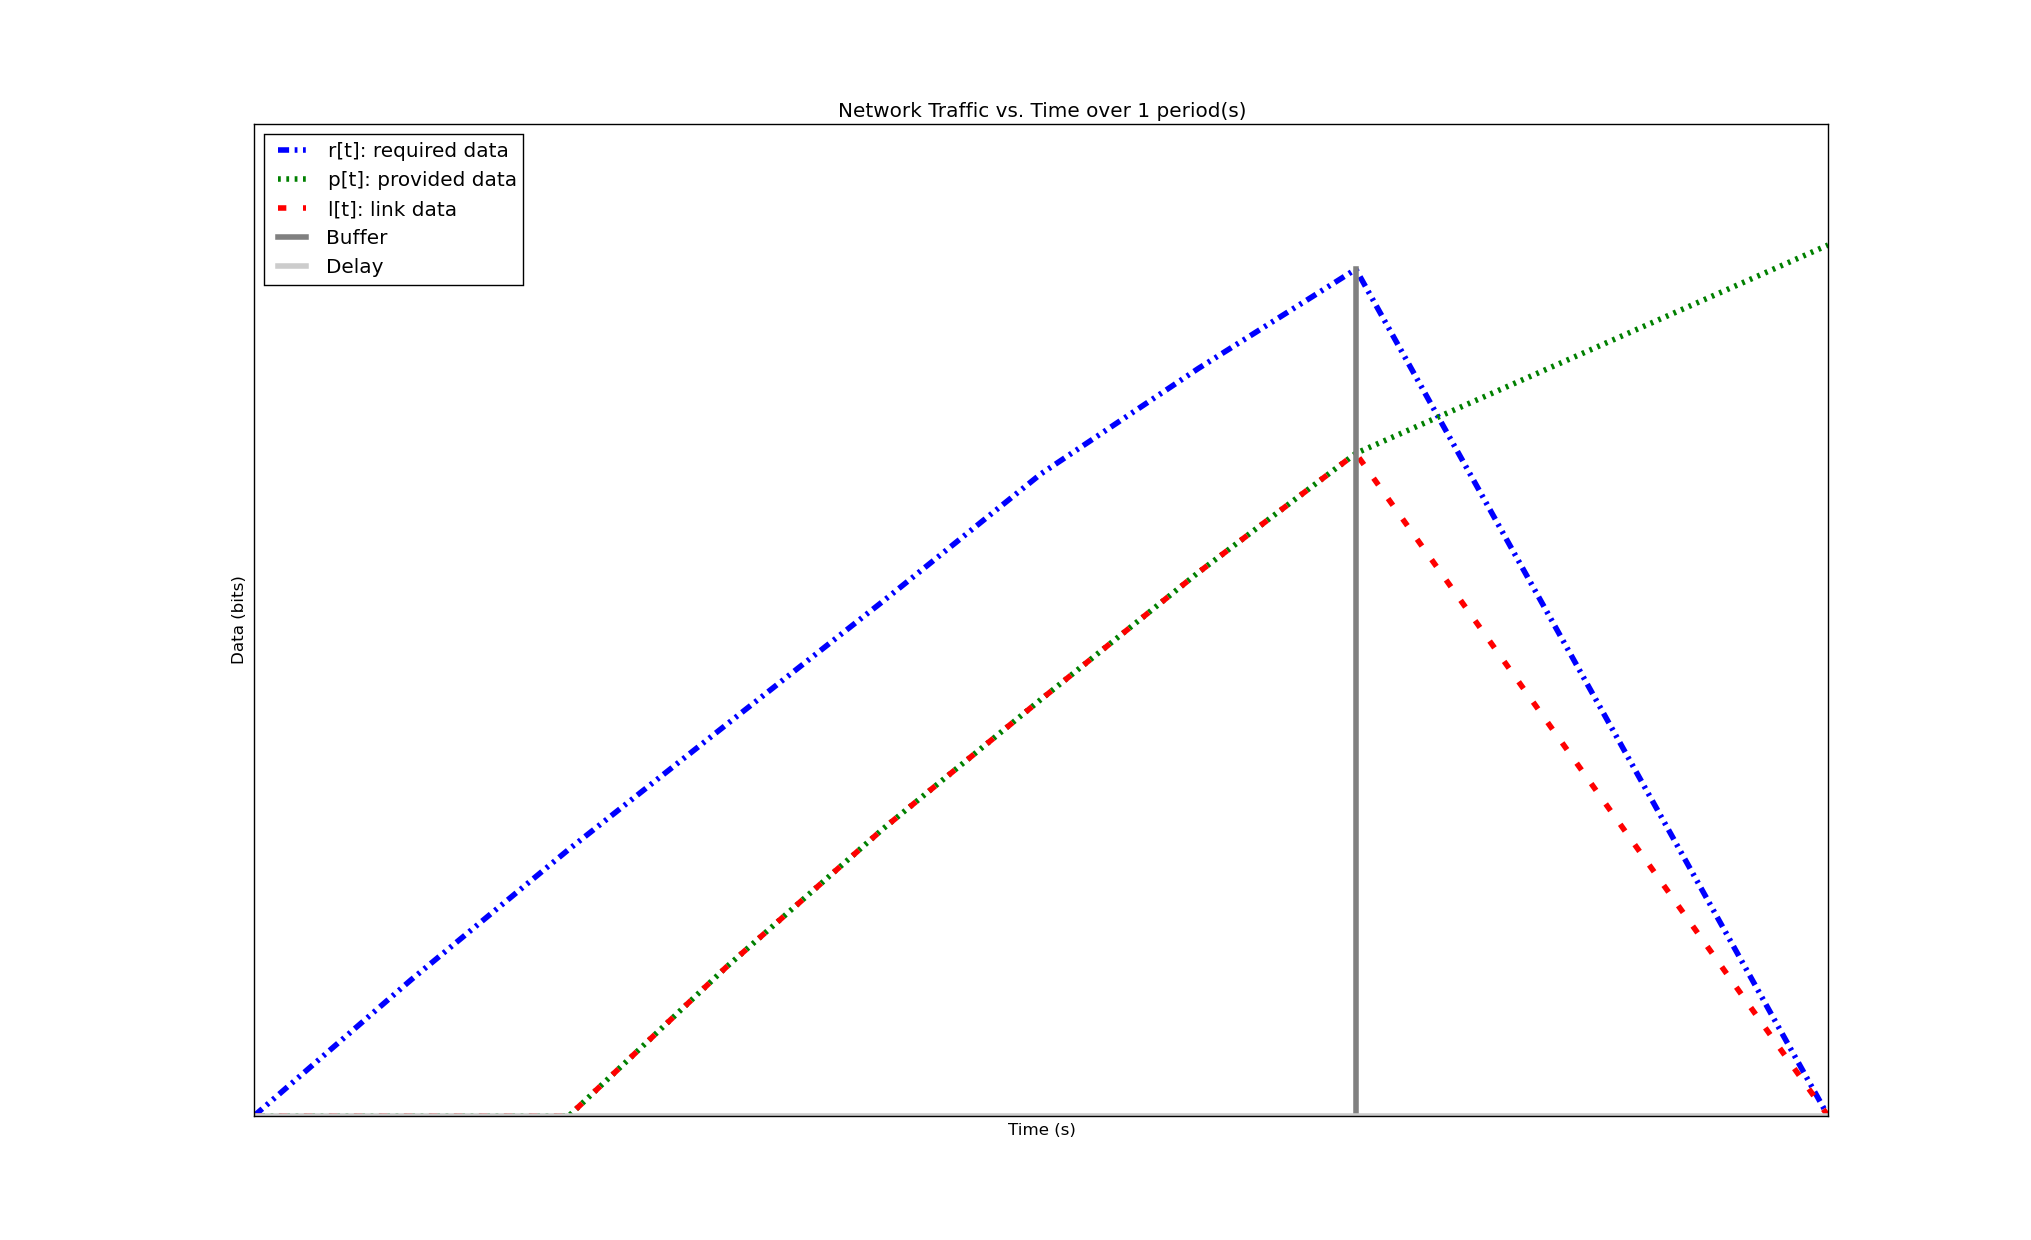
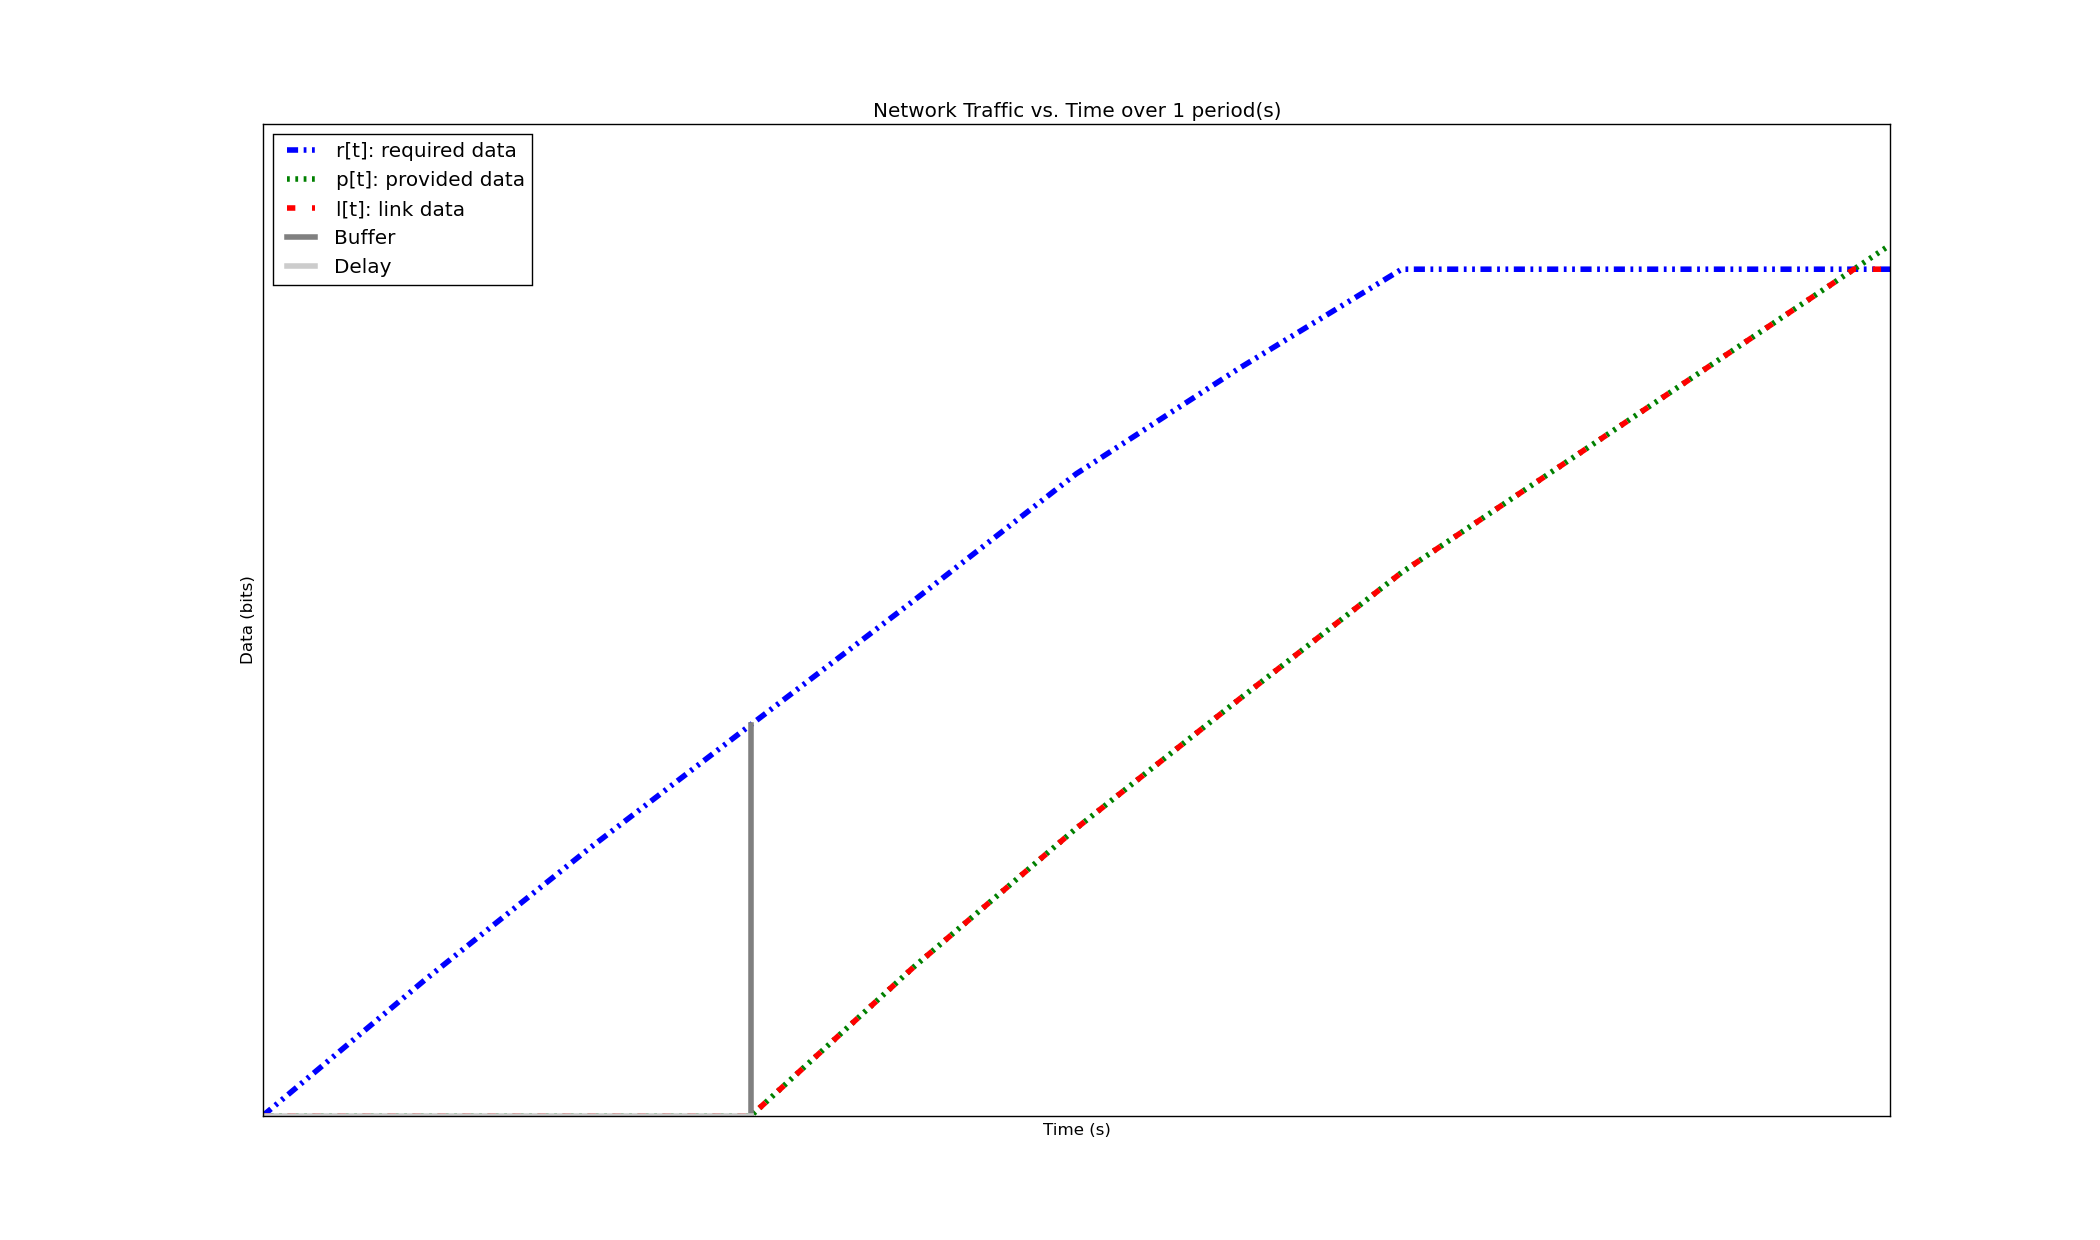
NC implementation should be fixed.  Updated generated plots for cyphy comparison.

diff --git a/code/networkAnalysis/version_1_0/acceptance-plot.py b/code/networkAnalysis/version_1_0/acceptance-plot.py
@@ -47,6 +47,7 @@ def getDataAtTimeFromProfile(p,t):
     while i < len(p) and t > p[i].end:
         i += 1
     retVal = p[i].data - p[i].slope * (p[i].end - t)
+    #print "@ {} has value {}\n".format(t,retVal)
     return retVal
 
 class NodeProfile:
@@ -205,11 +206,12 @@ class NodeProfile:
         prof = self.required
         for e in prof:
             time_list.append(e.end)
-        time_set = sorted(time_list)
         start_time = 0
-        for tw in time_set:
+        #print prof
+        prev_data = 0
+        for tw in time_list:
             max_data = 0
-            for t in range(int(tw),int(prof[-1].end)):
+            for t in range(int(tw),int(prof[-1].end)+1):
                 t = float(t)
                 startData = getDataAtTimeFromProfile(prof,t-tw)
                 endData = getDataAtTimeFromProfile(prof,t)
@@ -217,26 +219,29 @@ class NodeProfile:
                 if diff > max_data:
                     max_data = diff
             entry = ProfileEntry()
+            #print "NEW POINT @ {} has {}\n".format(start_time,max_data)
             entry.data = max_data
             entry.start = start_time
             start_time = tw
             entry.end = start_time
             entry.ptype = 'required'
-            entry.slope = entry.data / (entry.end - entry.start)
+            entry.slope = (entry.data-prev_data) / (entry.end - entry.start)
+            prev_data = entry.data
             entry.interface = 'none'
             self.required_nc.append(entry)
         # CONVERT self.provided into min service curve
         self.provided_nc = []
-        time_list = []
         for intf in self.interfaces:
             prof = self.getProvidedProfile(intf)
+            #print prof
+            time_list = []
             for e in prof:
                 time_list.append(e.end)
-            time_set = sorted(time_list)
             start_time = 0
-            for tw in time_set:
+            prev_data = 0
+            for tw in time_list:
                 min_srv = prof[-1].data
-                for t in range(int(tw),int(prof[-1].end)):
+                for t in range(int(tw),int(prof[-1].end)+1):
                     t = float(t)
                     startData = getDataAtTimeFromProfile(prof,t-tw)
                     endData = getDataAtTimeFromProfile(prof,t)
@@ -244,12 +249,14 @@ class NodeProfile:
                     if diff < min_srv:
                         min_srv = diff
                 entry = ProfileEntry()
+                #print "NEW POINT @ {} has {}\n".format(start_time,min_srv)
                 entry.data = min_srv
                 entry.start = start_time
                 start_time = tw
                 entry.end = start_time
                 entry.ptype = 'provided'
-                entry.slope = entry.data / (entry.end - entry.start)
+                entry.slope = (entry.data-prev_data) / (entry.end - entry.start)
+                prev_data = entry.data
                 entry.interface = intf
                 self.provided_nc.append(entry)
         #print self.provided
